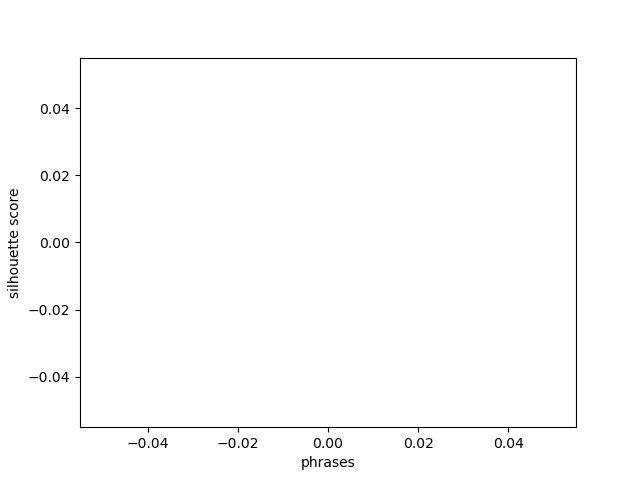
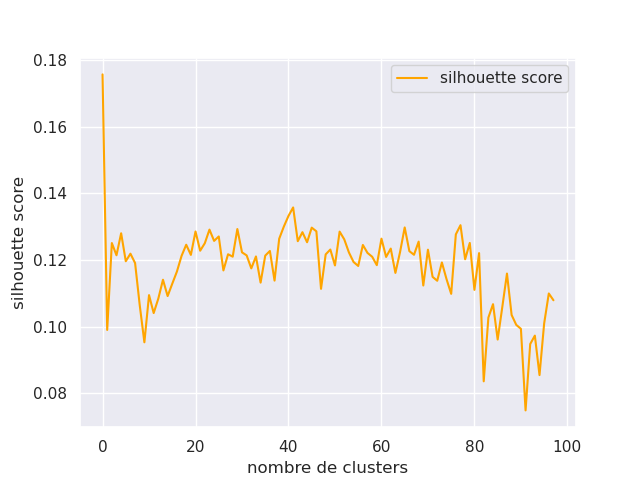
Add files via upload

diff --git a/Clust_Phrases/clust_spec.py b/Clust_Phrases/clust_spec.py
@@ -1,7 +1,7 @@
 import numpy as np
 import time
 from sklearn.cluster import SpectralClustering
-from sklearn.metrics import silhouette_score
+from sklearn.metrics import silhouette_score, davies_bouldin_score
 import pandas as pd
 import seaborn as sns
 import matplotlib.pyplot as plt
@@ -14,26 +14,41 @@ print('shape matsim =', np.shape(matsim))
 matsim = np.array([matsim[k][0].split(',') for k in range (np.shape(matsim)[0])])
 matsim = matsim.astype(float)
 matsim = np.ones(np.shape(matsim)) - matsim
+matsim = 0.5 * (matsim + matsim.T)
+
 def spectral_clustering(matrix, k):
 
     start = time.time()
     spectral_clustering = SpectralClustering(n_clusters = k, affinity = "precomputed")
     labels = spectral_clustering.fit_predict(matrix)
-    silhouette_avg = silhouette_score(matsim,labels)
+    print( "shape label = ", np.shape(labels))
+    silhouette_avg = silhouette_score(matrix,labels)
+    db_score = davies_bouldin_score(matrix, labels)
+
     print("temps d'exécution =", time.time() - start)
-    return labels, silhouette_avg
+    return labels, silhouette_avg, db_score
 spectral_clustering(matsim, 2)
 
 silhouettes = []
+db_score = []
 labels = []
-for k in range(2,30):
-    lab,sil = spectral_clustering(matsim,k)
+for k in range(2,100):
+    lab,sil,db = spectral_clustering(matsim,k)
     silhouettes.append(sil)
     labels.append(lab)
+    db_score.append(db)
 
 print("silhouettes = ",silhouettes)
-
-sns.lineplot(silhouettes)
-plt.xlabel('phrases')
+sns.set_theme()
+sns.lineplot(x = range(len(silhouettes)),y = silhouettes, color = "orange")
+plt.xlabel('nombre de clusters')
+plt.legend(labels = ["silhouette score"])
 plt.ylabel('silhouette score')
 plt.savefig('silhouette_score.png')
+plt.clf()
+
+sns.lineplot(x = range(len(db_score)), y = db_score, color = "blue")
+plt.xlabel('nombre de clusters')
+plt.legend(labels = ["Davies-Bouldin score"])
+plt.ylabel('Davies-Bouldin score')
+plt.savefig('Davies_Bouldin_score.png')
